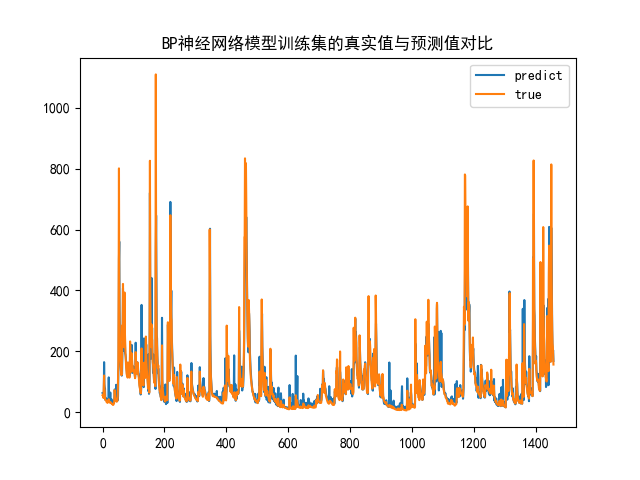
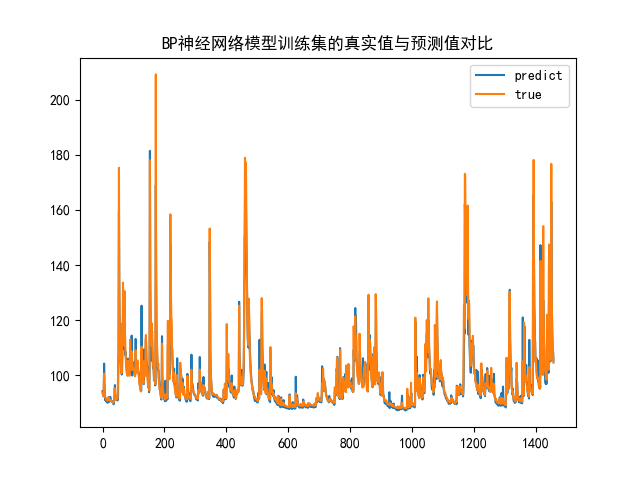
更新第一次验收错误（归一化使用训练集）-修复bug

diff --git a/utils/data_process.py b/utils/data_process.py
@@ -79,8 +79,9 @@ def Z_score(data, train_size=0.8):
     mean = data.iloc[:int(len(data) * train_size), 1:].mean()
     std = data.iloc[:int(len(data) * train_size), 1:].std()
     for col in data.columns[1:]:
-        new_df[col] = (data[col] - mean) / std
-    return new_df, mean, std
+        new_df[col] = (data[col] - mean[col]) / std[col]
+    print(new_df)
+    return new_df, data["Discharge"].mean(), data["Discharge"].std()
 
 
 def min_max(data, train_size=0.8):
@@ -95,8 +96,8 @@ def min_max(data, train_size=0.8):
     max_value = data.iloc[:int(len(data) * train_size), 1:].max()
     min_value = data.iloc[:int(len(data) * train_size), 1:].min()
     for col in data.columns[1:]:
-        new_df[col] = (data[col] - min_value) / (max_value - min_value)
-    return new_df, min_value, max_value
+        new_df[col] = (data[col] - min_value[col]) / (max_value[col] - min_value[col])
+    return new_df, data["Discharge"].min(), data["Discharge"].max()
 
 # Z-score简单归一化
 def Z_score_simple(data):

diff --git a/Discharge_predict.py b/Discharge_predict.py
@@ -296,8 +296,8 @@ if __name__ == "__main__":
     result = selector.SVM2nfeature(data, n=5)
 
     discharge_predict = Discharge_Predict(data, result, reverse_method=reverse_min_max, reverse_param=(origin_mean, origin_std))
-    # discharge_predict.BPNN_Discharge(learning_rate_init=0.01)
-    discharge_predict.SVM_Discharge(C=1, gamma='scale', tol=0.001)
+    discharge_predict.BPNN_Discharge(learning_rate_init=0.01)
+    # discharge_predict.SVM_Discharge(C=1, gamma='scale', tol=0.001)
 
     # import time
     # print("开始时间: {}".format(time.strftime("%Y-%m-%d %H:%M:%S", time.localtime())))
